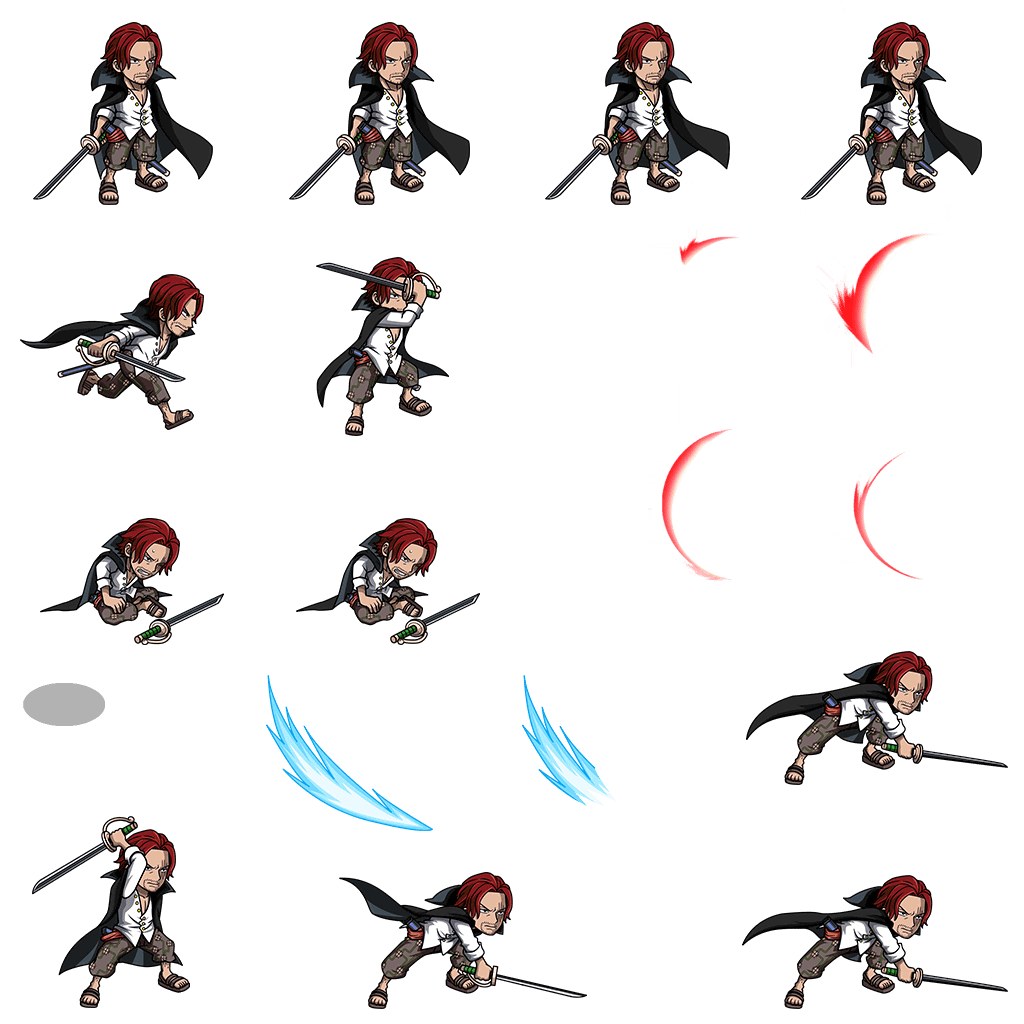
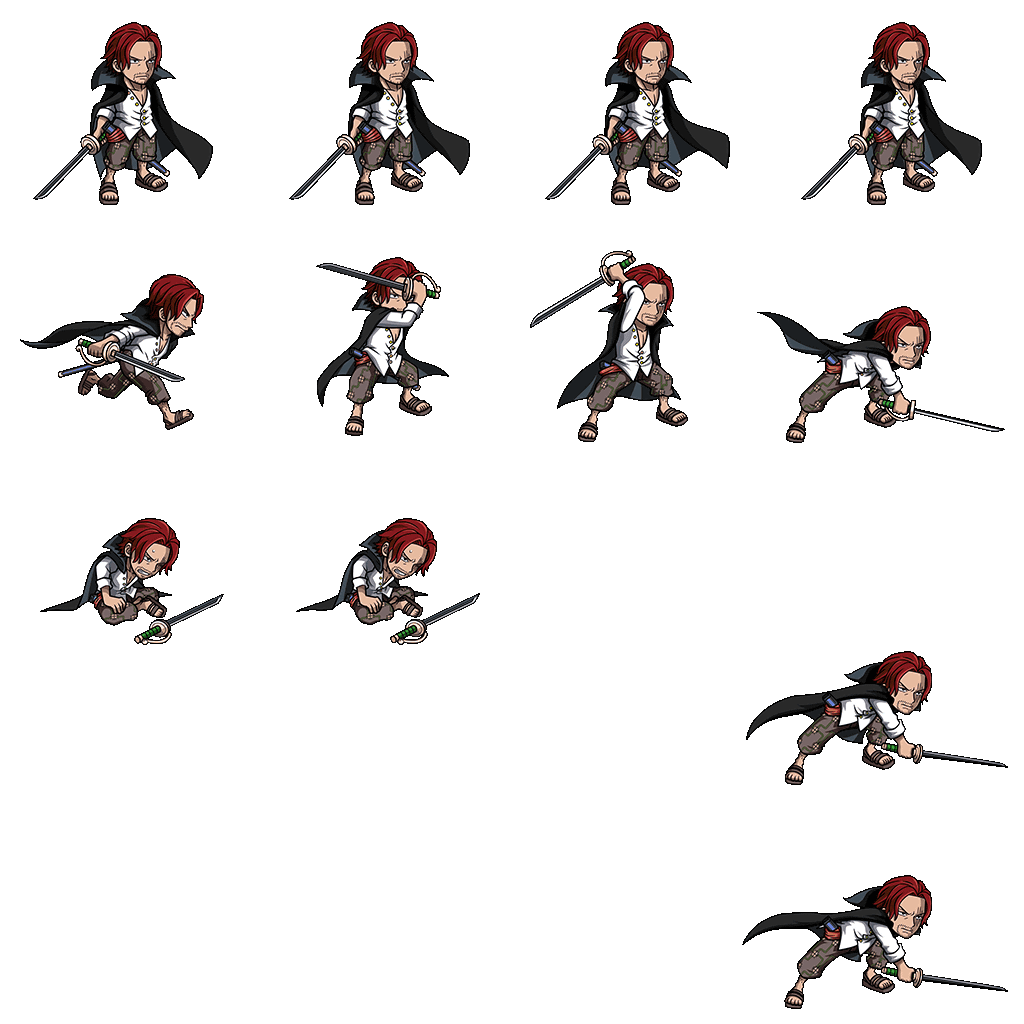
update battle page

diff --git a/lib/src/components/character_component.dart b/lib/src/components/character_component.dart
@@ -1,8 +1,12 @@
+import 'package:flame/cache.dart';
 import 'package:flame/collisions.dart';
 import 'package:flame/components.dart';
+import 'package:super_island/src/enums/character_move_enum.dart';
 import 'package:super_island/src/game/battle_game.dart';
+import 'package:super_island/src/providers/battle_provider.dart';
 
-class CharacterComponent extends PositionComponent with HasGameRef<BattleGame> {
+class CharacterComponent extends PositionComponent
+    with HasGameRef<BattleGame>, CollisionCallbacks {
   CharacterComponent({
     required this.characterImage,
     required this.characterPosition,
@@ -18,22 +22,108 @@ class CharacterComponent extends PositionComponent with HasGameRef<BattleGame> {
   Vector2 screenSize = Vector2.all(0);
   Vector2 starterPosition = Vector2.all(0);
 
+  final spriteAnimation = SpriteAnimationComponent();
+  bool isDefense = false;
+
   @override
   Future<void>? onLoad() async {
     screenSize = gameRef.size;
-    starterPosition = Vector2(characterPosition.x * (screenSize.x / 1),
-        characterPosition.y * (screenSize.y / 1));
-    size = Vector2(640, 512) * (screenSize.y / 2000);
-    position = starterPosition;
-
-    final component = SpriteComponent()
-      ..sprite = await Sprite.load(characterImage)
-      ..size = Vector2(640, 512) * (screenSize.y / 2000);
+    _setDataComponent();
+    await _setSpriteAnimation(_getStandardSprite());
     if (isFlip) {
-      component.flipHorizontallyAroundCenter();
+      spriteAnimation.flipHorizontallyAroundCenter();
     }
-    await add(component);
+    await add(spriteAnimation);
     await add(RectangleHitbox());
     return super.onLoad();
+  }
+
+  @override
+  void onCollision(Set<Vector2> intersectionPoints, PositionComponent other) {
+    if (other is CharacterComponent &&
+        gameRef.ref.watch(battleProvider).move == CharacterMoveEnum.run) {
+      gameRef.ref.read(battleProvider.notifier)
+        ..move = CharacterMoveEnum.attack
+        ..isAttack = true;
+    }
+    super.onCollision(intersectionPoints, other);
+  }
+
+  Future<void> setSprite(CharacterMoveEnum move) async {
+    switch (move) {
+      case CharacterMoveEnum.standard:
+        await _setSpriteAnimation(_getStandardSprite());
+        break;
+      case CharacterMoveEnum.run:
+        await _setSpriteAnimation(_getRunSprite());
+        break;
+      case CharacterMoveEnum.attack:
+        await _setSpriteAnimation(_getAttackSprite());
+        gameRef.ref.read(battleProvider.notifier).move =
+            CharacterMoveEnum.standard;
+        break;
+      case CharacterMoveEnum.defense:
+        await _setSpriteAnimation(getDefenseSprite());
+        break;
+      default:
+        await _setSpriteAnimation(_getStandardSprite());
+    }
+  }
+
+  Future<void> _setSpriteAnimation(
+      SpriteAnimationData spriteAnimationData) async {
+    final sprite = await Images().load(characterImage);
+    final spriteAnimationComponent =
+        SpriteAnimationComponent.fromFrameData(sprite, spriteAnimationData);
+    spriteAnimation
+      ..animation = spriteAnimationComponent.animation
+      ..size = Vector2(256, 224) * (screenSize.y / 800);
+  }
+
+  void _setDataComponent() {
+    starterPosition = Vector2(characterPosition.x * (screenSize.x / 1),
+        characterPosition.y * (screenSize.y / 1));
+    size = Vector2(256, 224) * (screenSize.y / 800);
+    size.x = size.x / 2;
+    position = starterPosition;
+  }
+
+  SpriteAnimationData _getStandardSprite() {
+    return SpriteAnimationData.sequenced(
+      amount: 4,
+      stepTime: 0.1,
+      textureSize: Vector2(256, 224),
+      texturePosition: Vector2(0, 0),
+    );
+  }
+
+  SpriteAnimationData _getRunSprite() {
+    return SpriteAnimationData.sequenced(
+      amount: 1,
+      stepTime: 0.1,
+      textureSize: Vector2(256, 224),
+      texturePosition: Vector2(0, 256),
+      loop: false,
+    );
+  }
+
+  SpriteAnimationData _getAttackSprite() {
+    return SpriteAnimationData.sequenced(
+      amount: 2,
+      stepTime: 0.3,
+      textureSize: Vector2(256, 224),
+      texturePosition: Vector2(500, 250),
+      loop: false,
+    );
+  }
+
+  SpriteAnimationData getDefenseSprite() {
+    return SpriteAnimationData.sequenced(
+      amount: 1,
+      stepTime: 0.1,
+      textureSize: Vector2(256, 224),
+      texturePosition: Vector2(256, 235),
+      loop: false,
+    );
   }
 }

diff --git a/lib/src/game/battle_game.dart b/lib/src/game/battle_game.dart
@@ -6,9 +6,12 @@ import 'package:super_island/src/components/battle_bg_component.dart';
 import 'package:super_island/src/components/character_component.dart';
 import 'package:super_island/src/components/skill_action_component.dart';
 import 'package:super_island/src/components/skill_component.dart';
+import 'package:super_island/src/enums/character_move_enum.dart';
 import 'package:super_island/src/game/character_position.dart';
+import 'package:super_island/src/providers/battle_provider.dart';
 
-class BattleGame extends FlameGame with HasTappableComponents {
+class BattleGame extends FlameGame
+    with HasTappableComponents, HasCollisionDetection {
   BattleGame(this.ref);
 
   final WidgetRef ref;
@@ -30,18 +33,77 @@ class BattleGame extends FlameGame with HasTappableComponents {
     player1 = CharacterComponent(
       characterImage: 'characters/shanks2.png',
       characterPosition: left1,
-      isFlip: true,
     );
     await add(player1);
 
     enemy1 = CharacterComponent(
       characterImage: 'characters/shanks2.png',
       characterPosition: right1,
+      isFlip: true,
     );
     await add(enemy1);
 
     await add(SkillComponent(size));
     await add(SkillActionComponent());
     return super.onLoad();
+  }
+
+  @override
+  void update(double dt) {
+    final battleWatch = ref.watch(battleProvider);
+    _run(battleWatch);
+    _attack(battleWatch);
+    _validateCollision(battleWatch);
+    super.update(dt);
+  }
+
+  Future<void> _run(BattleProvider battleWatch) async {
+    if (battleWatch.move == CharacterMoveEnum.run &&
+        !battleWatch.isAttack &&
+        (player1.size.x + player1.x) < size.x) {
+      await player1.setSprite(battleWatch.move);
+      player1
+        ..priority = 1
+        ..x += size.x / 70;
+    }
+    _goBack(battleWatch);
+  }
+
+  void _goBack(BattleProvider battleWatch) {
+    if (battleWatch.move == CharacterMoveEnum.standard &&
+        !battleWatch.isAttack &&
+        player1.x > player1.starterPosition.x) {
+      player1.x -= size.x / 70;
+    }
+  }
+
+  Future<void> _attack(BattleProvider battleWatch) async {
+    if (battleWatch.move == CharacterMoveEnum.attack) {
+      await player1.setSprite(CharacterMoveEnum.attack);
+    }
+  }
+
+  void _validateCollision(BattleProvider battleWatch) {
+    if (battleWatch.move == CharacterMoveEnum.standard &&
+        battleWatch.isAttack &&
+        player1.isColliding) {
+      _defense();
+      player1.spriteAnimation.animation?.onComplete = () async {
+        ref.read(battleProvider.notifier).isAttack = false;
+        await player1.setSprite(CharacterMoveEnum.standard);
+      };
+    }
+  }
+
+  Future<void> _defense() async {
+    enemy1.isDefense = true;
+    if (enemy1.isDefense) {
+      enemy1.isDefense = false;
+      await enemy1.setSprite(CharacterMoveEnum.defense);
+      enemy1.spriteAnimation.animation?.onComplete = () {
+        enemy1.setSprite(CharacterMoveEnum.standard);
+      };
+      return;
+    }
   }
 }

diff --git a/lib/src/components/skill_action_component.dart b/lib/src/components/skill_action_component.dart
@@ -1,7 +1,9 @@
 import 'package:flame/components.dart';
 import 'package:flame/experimental.dart';
 import 'package:flutter/material.dart';
+import 'package:super_island/src/enums/character_move_enum.dart';
 import 'package:super_island/src/game/battle_game.dart';
+import 'package:super_island/src/providers/battle_provider.dart';
 
 class SkillActionComponent extends PositionComponent
     with HasGameRef<BattleGame>, TapCallbacks {
@@ -51,18 +53,21 @@ class SkillActionComponent extends PositionComponent
 
   @override
   void onTapUp(TapUpEvent event) {
+    if (gameRef.ref.watch(battleProvider).move == CharacterMoveEnum.standard) {
+      gameRef.ref.read(battleProvider.notifier).move = CharacterMoveEnum.run;
+    }
     super.onTapUp(event);
   }
 
-  @override
-  void onTapDown(TapDownEvent event) {
-    // print('tap down');
-    super.onTapDown(event);
-  }
+  // @override
+  // void onTapDown(TapDownEvent event) {
+  //   // print('tap down');
+  //   super.onTapDown(event);
+  // }
 
-  @override
-  void onTapCancel(TapCancelEvent event) {
-    // print('tap cancel');
-    super.onTapCancel(event);
-  }
+  // @override
+  // void onTapCancel(TapCancelEvent event) {
+  //   // print('tap cancel');
+  //   super.onTapCancel(event);
+  // }
 }

diff --git a/lib/src/providers/battle_provider.dart b/lib/src/providers/battle_provider.dart
@@ -1,0 +1,14 @@
+import 'package:flutter/material.dart';
+import 'package:flutter_riverpod/flutter_riverpod.dart';
+import 'package:super_island/src/enums/character_move_enum.dart';
+
+final battleProvider = ChangeNotifierProvider(
+  (ref) => BattleProvider(CharacterMoveEnum.standard),
+);
+
+class BattleProvider extends ValueNotifier<dynamic> {
+  BattleProvider(this.move, {this.isAttack = false}) : super(move);
+
+  CharacterMoveEnum move;
+  bool isAttack;
+}

diff --git a/lib/src/game/character_position.dart b/lib/src/game/character_position.dart
@@ -1,5 +1,5 @@
 import 'package:flame/input.dart';
 
-final left1 = Vector2(0.3, 0.35);
+final left1 = Vector2(0.2, 0.35);
 
-final right1 = Vector2(0.53, 0.35);
+final right1 = Vector2(0.63, 0.35);

diff --git a/lib/src/enums/character_move_enum.dart b/lib/src/enums/character_move_enum.dart
@@ -1,0 +1,7 @@
+enum CharacterMoveEnum {
+  standard,
+  run,
+  attack,
+  special,
+  defense,
+}
